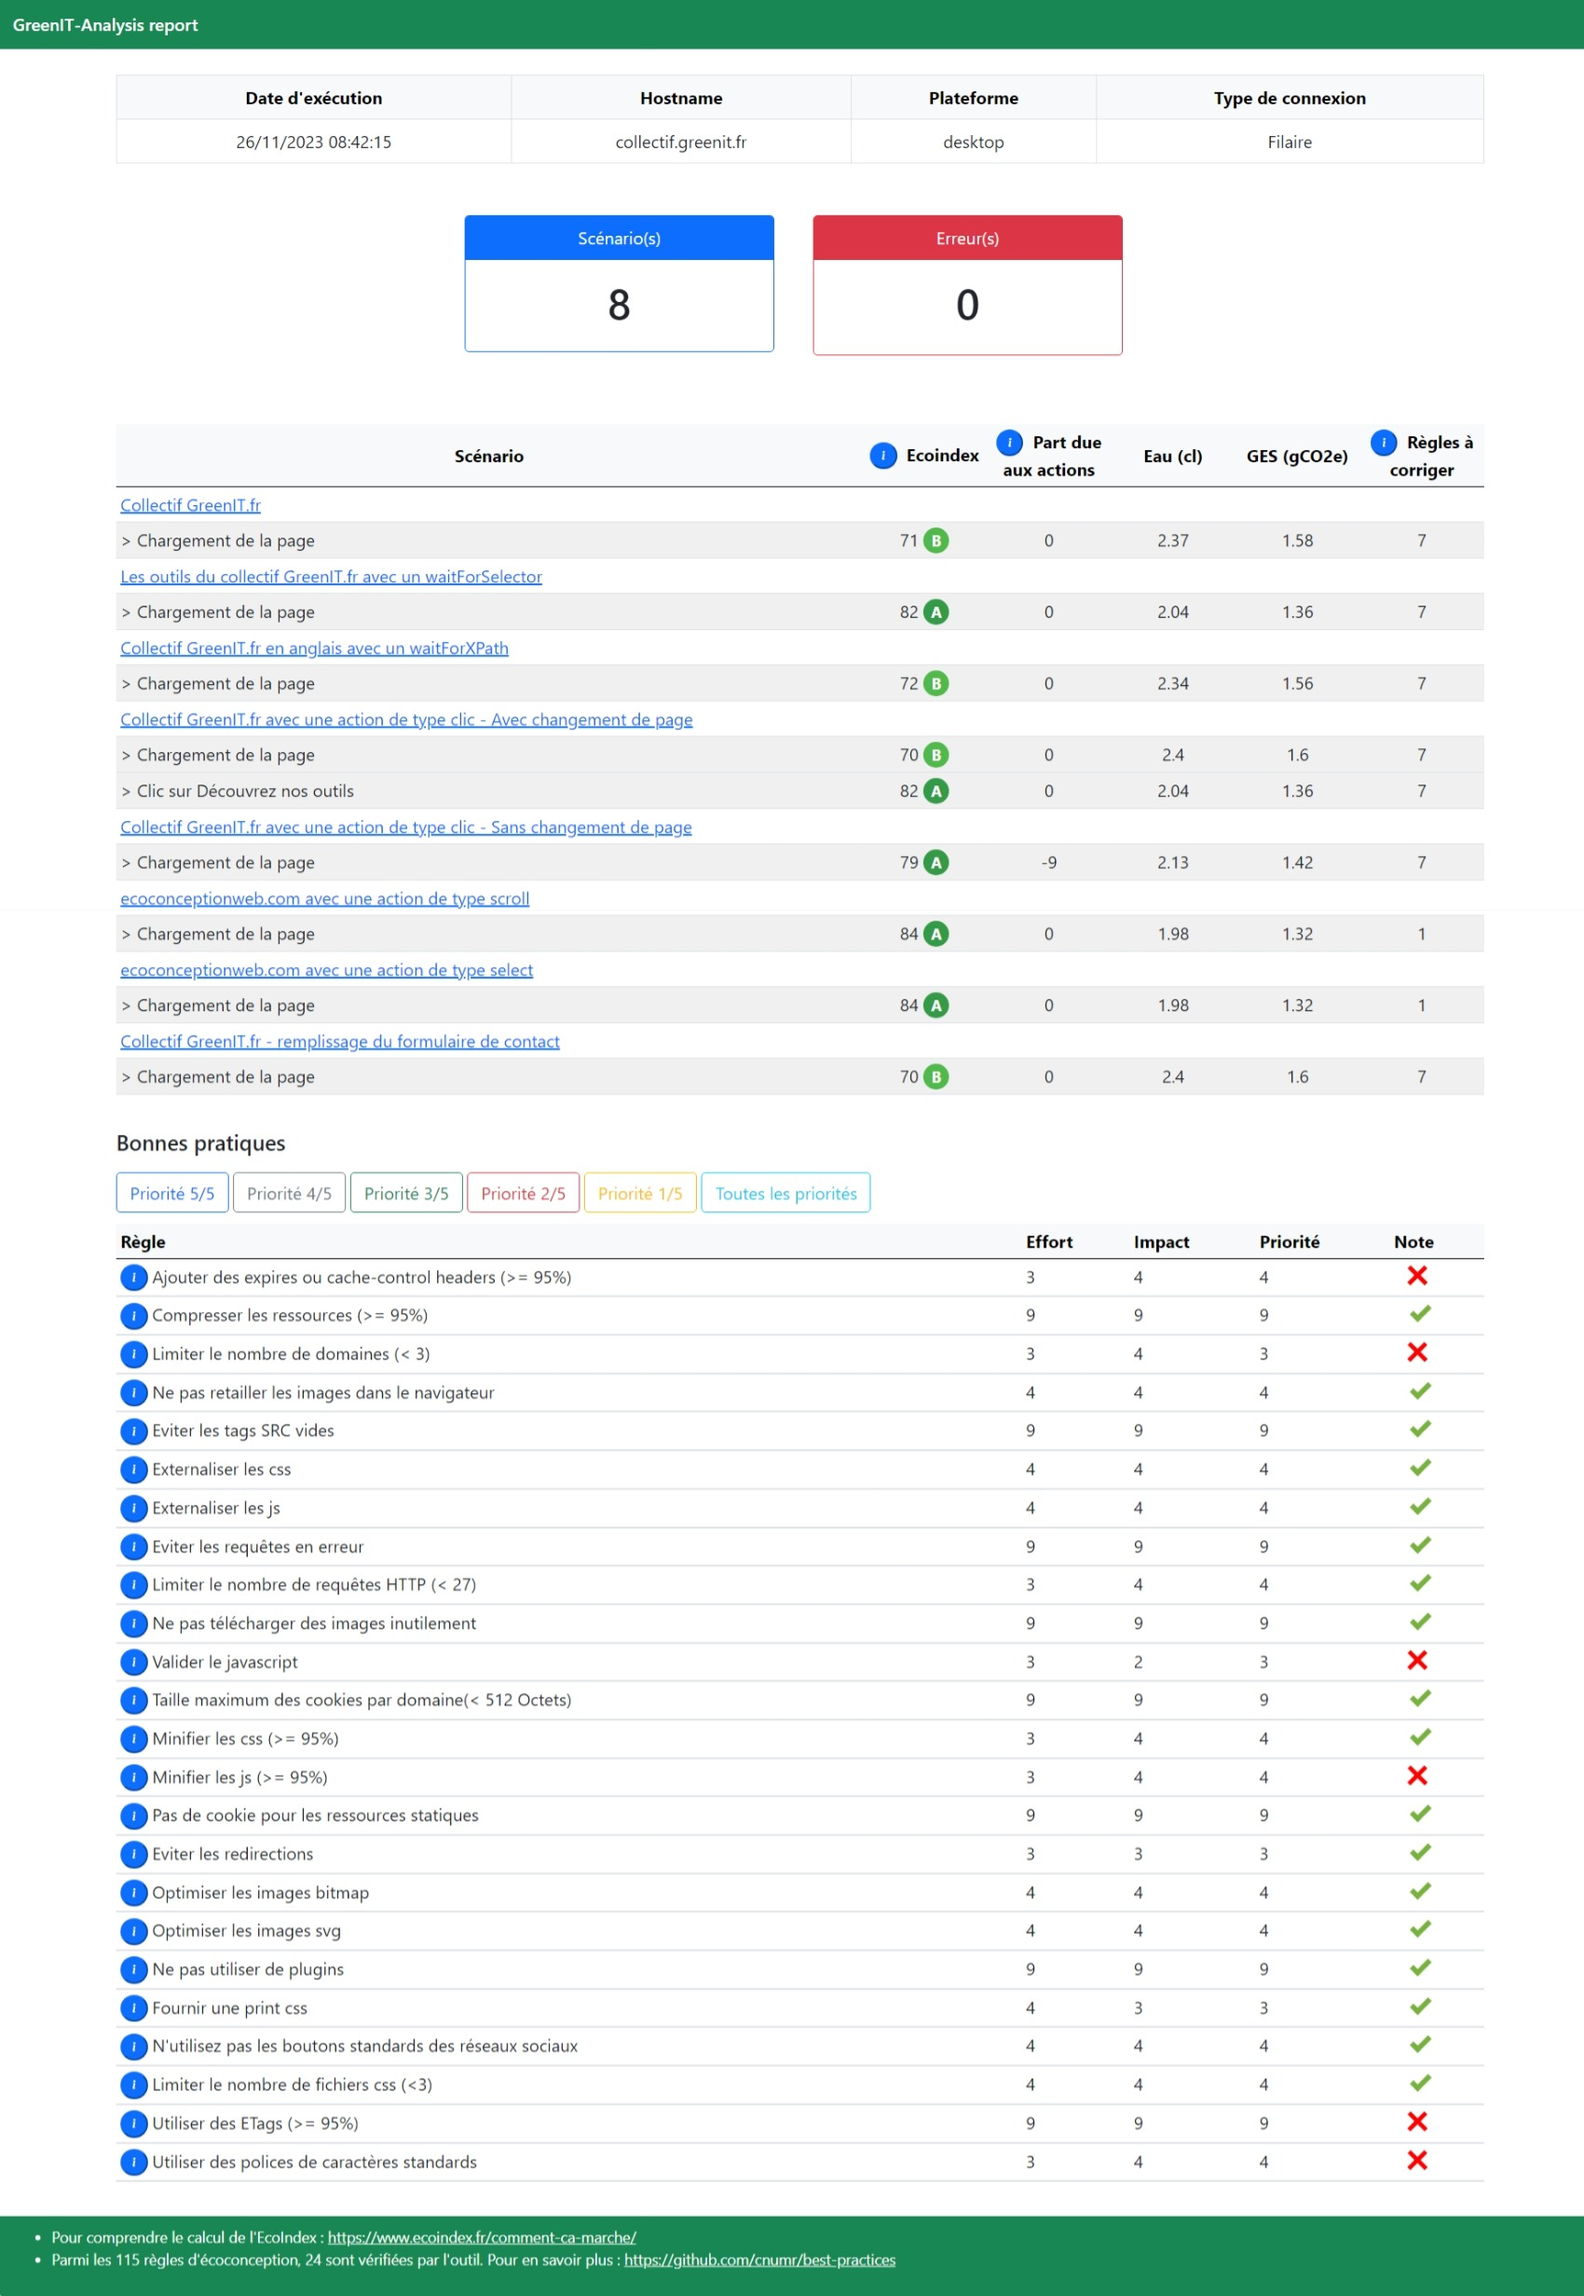
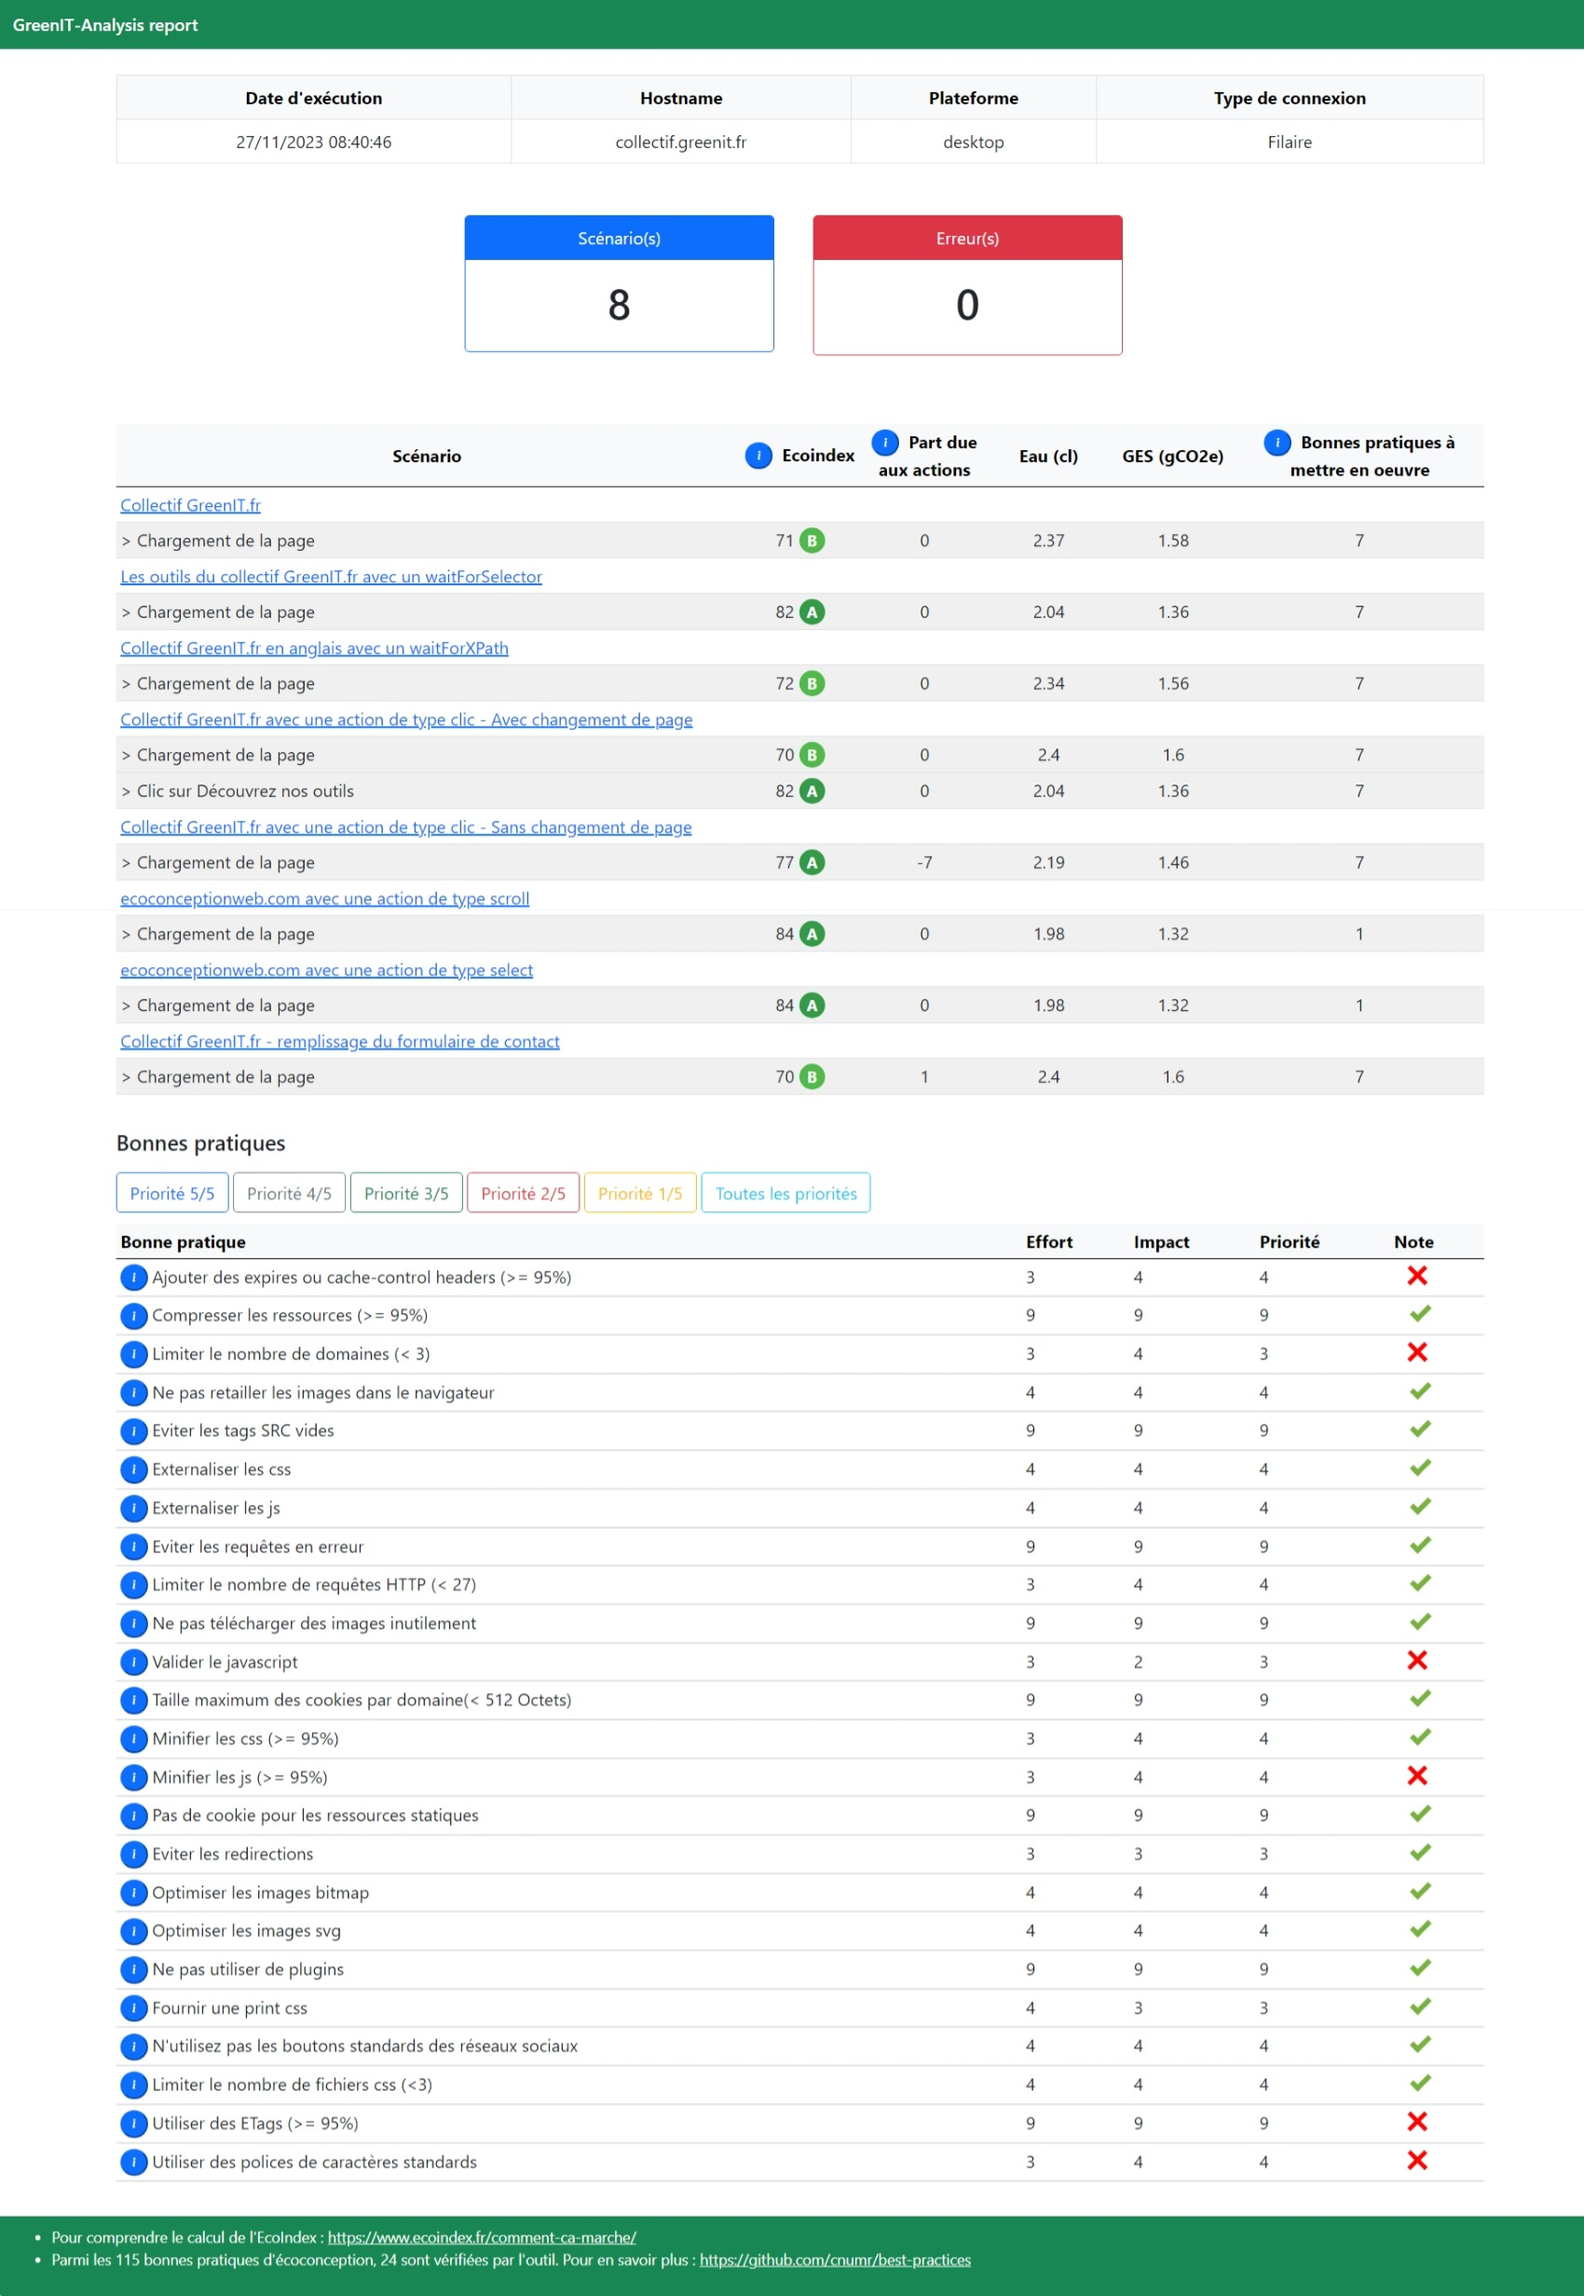
fix(#59): Renommage 'règles à corriger' en 'bonnes pratiques à mettre en oeuvre'

diff --git a/cli-core/template/global.html b/cli-core/template/global.html
@@ -213,7 +213,7 @@
                     <div class="col col-md-12">
                         <table id="tabPages" class="table table-sm">
                             <thead class="table-light" style="text-align: center; vertical-align: middle">
-                                <th scope="col" class="col col-md-6">Scénario</th>
+                                <th scope="col" class="col col-md-5">Scénario</th>
                                 <th scope="col" class="col col-md-1">
                                     <button
                                         class="btn-primary bi bi-info rounded-circle"
@@ -230,12 +230,12 @@
                                 </th>
                                 <th scope="col" class="col col-md-1">Eau (cl)</th>
                                 <th scope="col" class="col col-md-1">GES (gCO2e)</th>
-                                <th scope="col" class="col col-md-1">
+                                <th scope="col" class="col col-md-2">
                                     <button
                                         class="btn-primary bi bi-info rounded-circle"
-                                        onclick="alert('Nombre de règles d\'écoconception à corriger par page sur les 24 analysées par l\'outil')">
+                                        onclick="alert('Nombre de bonnes pratiques d\'écoconception à mettre en oeuvre par page sur les 24 analysées par l\'outil')">
                                     </button>
-                                    &nbsp;Règles à corriger
+                                    &nbsp;Bonnes pratiques à mettre en oeuvre
                                 </th>
                             </thead>
                             <tbody class="text-center">
@@ -245,7 +245,7 @@
                                     </tr>
                                     {{#pages}}
                                     <tr class="pageRow {{ cssRowError }}">
-                                        <td class="col col-md-6 text-start"> > {{ name }}</td>
+                                        <td class="col col-md-5 text-start"> > {{ name }}</td>
                                         {{^success}}
                                         <td colspan="4">Erreur</td>
                                         {{/success}}
@@ -256,7 +256,7 @@
                                         <td class="col col-md-1">{{ deltaEcoIndex }}</td>
                                         <td class="col col-md-1">{{ waterConsumption }}</td>
                                         <td class="col col-md-1">{{ greenhouseGasesEmission }}</td>
-                                        <td class="col col-md-1">{{ nbBestPracticesToCorrect }}</td>
+                                        <td class="col col-md-2">{{ nbBestPracticesToCorrect }}</td>
                                         {{/success}}
                                     </tr>
                                     {{/pages}}
@@ -293,7 +293,7 @@
                     <div class="col col-md-12">
                         <table id="tabBestPractices" class="table table-sm">
                             <thead class="table-light">
-                                <th scope="col">Règle</th>
+                                <th scope="col">Bonne pratique</th>
                                 <th scope="col">Effort</th>
                                 <th scope="col">Impact</th>
                                 <th scope="col">Priorité</th>
@@ -336,7 +336,7 @@
             <small>
                 <ul>
                     <li>Pour comprendre le calcul de l'EcoIndex : <a class="text-white" href="https://www.ecoindex.fr/comment-ca-marche/">https://www.ecoindex.fr/comment-ca-marche/</a></li>
-                    <li>Parmi les 115 règles d'écoconception, 24 sont vérifiées par l'outil. Pour en savoir plus : <a class="text-white" href="https://github.com/cnumr/best-practices">https://github.com/cnumr/best-practices</a></li>
+                    <li>Parmi les 115 bonnes pratiques d'écoconception, 24 sont vérifiées par l'outil. Pour en savoir plus : <a class="text-white" href="https://github.com/cnumr/best-practices">https://github.com/cnumr/best-practices</a></li>
                 </ul>
             </small>
         </div>

diff --git a/cli-core/template/page.html b/cli-core/template/page.html
@@ -218,7 +218,7 @@
                                 <tr class="collapseRow">
                                     <td colspan="7">
                                         <a data-bs-toggle="collapse" href="#rule_{{ id }}" role="button" aria-expanded="false" aria-controls="rule_{{ id }}">
-                                            Bonnes pratiques ({{ nbBestPracticesToCorrect }} à corriger)
+                                            Bonnes pratiques ({{ nbBestPracticesToCorrect }} à mettre en oeuvre)
                                         </a>
                                     </td>
                                 </tr>
@@ -226,7 +226,7 @@
                                     <td colspan="7" class="hiddenRow">
                                         <table id="rule_{{ id }}" class="collapse table table-sm">
                                             <thead class="table-light">
-                                                <th scope="col">Règle</th>
+                                                <th scope="col">Bonne pratique</th>
                                                 <th scope="col">Résultat</th>
                                                 <th scope="col">Note</th>
                                             </thead>
@@ -275,7 +275,7 @@
                     <div class="col col-md-12">
                         <table id="tabBestPractices" class="table table-sm">
                             <thead class="table-light">
-                                <th scope="col">Règle</th>
+                                <th scope="col">Bonne pratique</th>
                                 <th scope="col">Résultat</th>
                                 <th scope="col">Effort</th>
                                 <th scope="col">Impact</th>

diff --git a/cli-core/reportExcel.js b/cli-core/reportExcel.js
@@ -42,7 +42,7 @@ async function create_XLSX_report(reportObject, options) {
     globalReport_data.worstPages.forEach((element) => {
         globalSheet_data.push([element.nb, element.url, 'Grade', element.grade, 'EcoIndex', element.ecoIndex]);
     });
-    globalSheet_data.push([], ['Règles à appliquer :']);
+    globalSheet_data.push([], ['Bonnes pratiques à mettre en oeuvre :']);
     globalReport_data.worstRules.forEach((elem) => {
         globalSheet_data.push([elem]);
     });

diff --git a/README.md b/README.md
@@ -345,7 +345,7 @@ Paramètres optionnels :
 - `--retry , -r` : Nombre d'essais supplémentaires d'analyse en cas d'echec. (Valeur par défaut : 2)
 - `--timeout , -t` : Nombre de millisecondes maximal pour charger une url. (Valeur par défaut : 180000)
 - `--worst_pages` : Nombre de pages à traiter en priorité affichées sur la page de résumé. (Valeur par défaut : 5)
-- `--worst_rules` : Nombre de règles à respecter en priorité affichées sur la page de résumé. (Valeur par défaut : 5)
+- `--worst_rules` : Nombre de bonnes pratiques à respecter en priorité affichées sur la page de résumé. (Valeur par défaut : 5)
 
 ### Usage avec Docker
 1. Déposer le fichier `<url_input_file>` dans le dossier `/<path>/input`.
@@ -421,7 +421,7 @@ greenit analyse /app/input/url.yaml /app/output/results.xlsx --format=xlsx
 ```
 
 Le rapport Excel est composé :
-- D'un onglet représentant le rapport global : moyenne de l'ecoindex de toutes les URL analysées, les URL prioritaires à corriger, les règles prioritaires à corriger, ...
+- D'un onglet représentant le rapport global : moyenne de l'ecoindex de toutes les URL analysées, les URL prioritaires à corriger, les bonnes pratiques prioritaires à mettre en oeuvre, ...
 - D'un onglet par URL analysée : l'ecoindex de l'URL et ses indicateurs ayant servi à le calculer, les indicateurs de consommation d'eau et d'émissions de gaz à effet de serre, le tableau des bonnes pratiques, ...
 
 Exemple d'un rapport :
@@ -447,7 +447,7 @@ greenit analyse /app/input/url.yaml /app/output/global.html --format=html
 ```
 
 Le rapport HTML est composé :
-- D'une page résumé : nombre de scénarios analysés, nombre d'erreur, tableau récapitulatif des scénarios analysés avec leurs indicateurs associés (ecoindex, eau, GES, nombre de règles à corriger). Un scénario débute par l'ouverture d'une page web via son URL, puis réalise un certain nombre d'actions pouvant éventuellement entrainer l'ouverture d'une autre page. Pour accéder au rapport détaillé d'un scénario analysé, il suffit de cliquer sur le nom du scénario. Un tableau récapitulatif des bonnes pratiques non respectées (dans au moins 1 scénario) est aussi présent.
+- D'une page résumé : nombre de scénarios analysés, nombre d'erreur, tableau récapitulatif des scénarios analysés avec leurs indicateurs associés (ecoindex, eau, GES, nombre de bonnes pratiques à mettre en oeuvre). Un scénario débute par l'ouverture d'une page web via son URL, puis réalise un certain nombre d'actions pouvant éventuellement entrainer l'ouverture d'une autre page. Pour accéder au rapport détaillé d'un scénario analysé, il suffit de cliquer sur le nom du scénario. Un tableau récapitulatif des bonnes pratiques non respectées (dans au moins 1 scénario) est aussi présent.
 - D'une page par scénario analysé : total du nombre de requêtes HTTP, taille et poids des pages analysées, ainsi qu'un tableau détaillant page par page, et action par action, les indicateurs tels que l'ecoindex et ses indicateurs ayant servi à le calculer, les indicateurs de consommation d'eau et d'émissions de gaz à effet de serre, le tableau des bonnes pratiques, ...
 
 Exemple d'un rapport :
